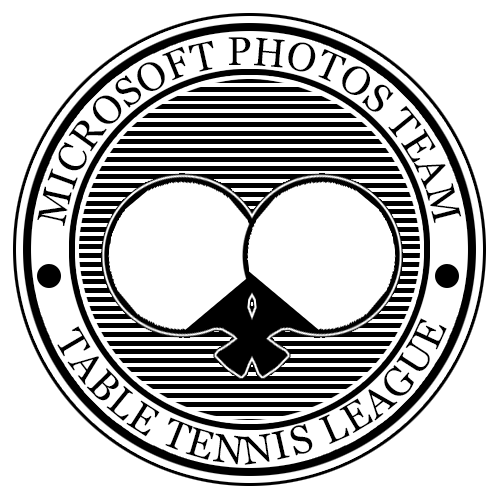
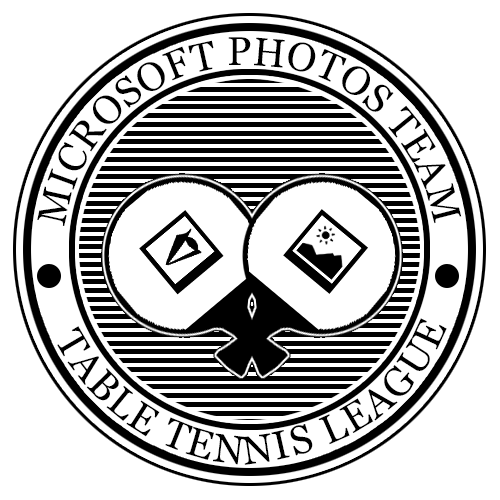
Updated art, using tornado now

Changed region(s): [[0.57, 0.42, 0.75, 0.6], [0.3, 0.42, 0.45, 0.6], [0.27, 0.48, 0.3, 0.51]]

diff --git a/templates/index.html b/templates/index.html
@@ -75,6 +75,9 @@ New players: quick rules are at the bottom of this page.
 
 <h1>Scheduled matches</h1>
 <p>
+Not playing a scheduled game within the week without an explanation to the
+league commissioner (damilla) is equivalent to a loss to an unranked player.
+<br/>
 Scheduled matches alternate weekly between ranked and random.
 <br/>
 This week is a
@@ -100,7 +103,13 @@ week.
 <p>
 The photos team ladder accepts only 3-game matches.
 <br/>
+<b>The winner should record the match.  Please avoid unintentional
+    duplicates.</b>
+<br/>
 Recording a scheduled game will automatically remove it from the schedule.
+<br/>
+All recorded matches affect the ladder; if you don't want it to change ranking,
+don't record it (but agree before the match!)
 </p>
 <form action="{{url_for("record")}}" method="post">
     <label for="p1">Player 1: </label>
@@ -154,12 +163,17 @@ For disputes, see the
     official handbook</a>.
 <ul>
     <li>Matches are played "best of three" to 11</li>
-    <li>Players decide by a method of their own choosing who serves first</li>
+    <li>Players decide by a method of their own choosing one player to serve or
+    return first (returner chooses table sides)</li>
+    <li>Players swap table sides between games, and every five points during the
+    final game</li>
     <li>Components to a legal serve:</li>
     <ul>
         <li>The ball rests in the server's open palm</li>
         <li>The ball is tossed a minimum of 6 inches in the air</li>
         <li>Before the ball hits the table, the server strikes the ball</li>
+        <li>Until the server strikes the ball, the ball should be behind the
+        server's endline</li>
         <li>The ball hits once on the server's side of the table, and then once on the
         receiver's side of the table</li>
         <li>If a serve is legal except that it touches the net, it is called a "let" and
@@ -167,7 +181,7 @@ For disputes, see the
         <li>After two consecutive lets, the point goes to the receiver</li>
     </ul>
     <li>After two points have been scored (i.e. the sum of the scores is even), service switches</li>
-    <li>If the score of a game becomes 10-10</li>
+    <li>If the score of a game becomes 10-10:</li>
     <ul>
         <li>Players must win by two points</li>
         <li>Service switches every point</li>

diff --git a/templates/header.html b/templates/header.html
@@ -1,6 +1,6 @@
 <marquee width=300><b>PHOTOS TEAM PING PONG LADDER</b></marquee>
 <br/>
-<a href="{{url_for('index')}}"><img src="{{url_for('static', filename='ttnormal.png')}}" width="300px"/></a>
+<a href="{{url_for('index')}}"><img style="border: none" src="{{url_for('static', filename='ttnormal.png')}}" width="300px"/></a>
 <br/>
 <marquee width=300 direction="right"><b>PHOTOS TEAM PING PONG LADDER</b></marquee>
 <br/>

diff --git a/templates/matches.html b/templates/matches.html
@@ -12,7 +12,6 @@ Scheduled matches are highlighted in yellow.
 <br/>
 <table border="1">
 <tr>
-<td>date</td>
 <td>winner</td>
 <td>loser</td>
 <td>score</td>
@@ -23,7 +22,6 @@ Scheduled matches are highlighted in yellow.
 {% else %}
 <tr>
 {% endif %}
-<td>{{recent['date']}}</td>
 <td>{{recent[0]}}</td>
 <td>{{recent[1]}}</td>
 <td>{{recent['winscore']}}-{{recent['losescore']}}</td>

diff --git a/wrapper.py b/wrapper.py
@@ -1,0 +1,8 @@
+from tornado.wsgi import WSGIContainer
+from tornado.httpserver import HTTPServer
+from tornado.ioloop import IOLoop
+from pingpong import app
+
+http_server = HTTPServer(WSGIContainer(app))
+http_server.listen(80)
+IOLoop.instance().start()

diff --git a/pingpong.py b/pingpong.py
@@ -251,4 +251,4 @@ if __name__ == '__main__':
         with open(os.path.join(cwd, 'key.json'), 'w') as f:
             json.dump({'key' : app.secret_key}, f)
     
-    app.run(debug=True, host='0.0.0.0')
+    app.run(debug=False, host='0.0.0.0')
